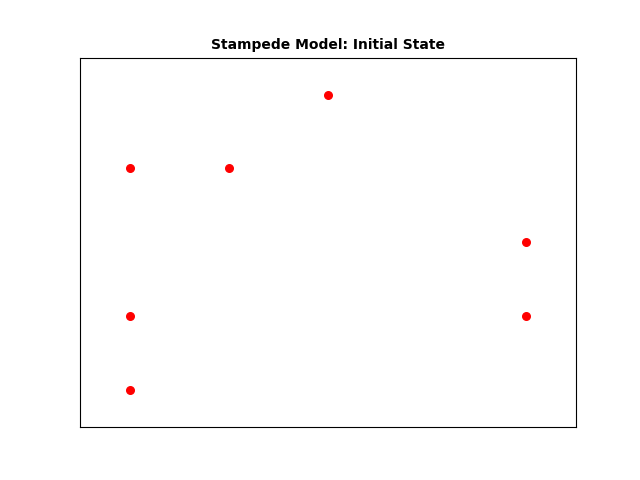
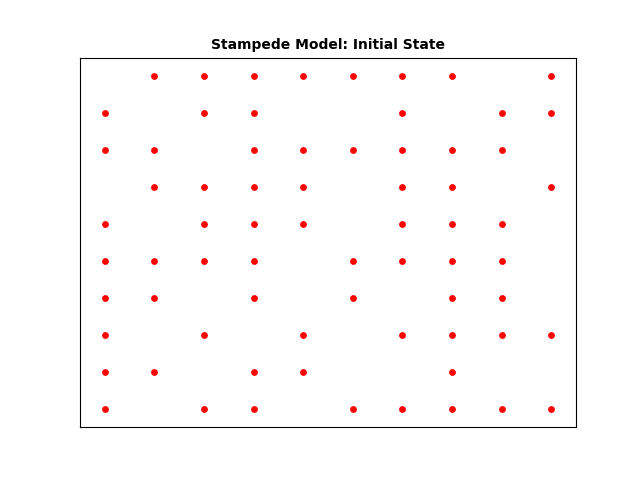
added goalIndices to the Stampede class

diff --git a/Stampede.py b/Stampede.py
@@ -14,14 +14,16 @@ import copy
 from Agent import Agent
 
 class Stampede:
-    def __init__(self, width, height, fullRatio, n_iterations, weightDistribution):
+    def __init__(self, width, height, fullRatio, n_iterations, weightDistribution, goal):
         # self.agents = []                              # array: holds all agents               # TODO: RIGHT NOW THIS IS AN ARRAY, USED TO BE STORED IN {}; DECIDE IF THIS IS A GOOD DECISION OR IF IT SHOULD BE {}
         self.width = width                              # int: width of the grid I think
         self.height = height                            # int: height of the grid I think
         self.totalCells = width * height
         self.fullRatio = fullRatio                      # float
         self.n_iterations = n_iterations                # int
-        self.weightDistribution = weightDistribution    # dictionary: { "mean": , "sd":  }
+        self.weightDistribution = weightDistribution    # dictionary: { "mean": int, "sd": int }
+        self.goal = goal                                # dictionary: { "x1": int, "y1": int, "x2": int, "y2" }
+                                                            # (x1, y1) and (x2, y2) are the indices at either side of the "goal" indices that everybdy wants to get to
 
     def populate(self):
         # Calculate the number of cells to fill with Agents
@@ -82,7 +84,6 @@ class Stampede:
         for row in self.agents:
             for agent in row:
                 if (agent != ''):
-                    print("agent is: ", agent)
                     if agent.fallen:
                         agentColor = 'b'
                     if not agent.alive:
@@ -102,7 +103,7 @@ class Stampede:
 def main():
     ##Starter Simulation
     weightDistribution = {"mean": 160, "sd": 20}  # not facts idk what weight distribution is
-    stampede = Stampede(5, 5, 0.3, 200, weightDistribution)  # TODO: CHANGE THIS EVENTUALLY TO A BIGGER ARRAY :)
+    stampede = Stampede(10, 10, 0.7, 200, weightDistribution)  # TODO: CHANGE THIS EVENTUALLY TO A BIGGER ARRAY :)
     stampede.populate()
 
     stampede.plot('Stampede Model: Initial State', 'stampede_initial.png')
